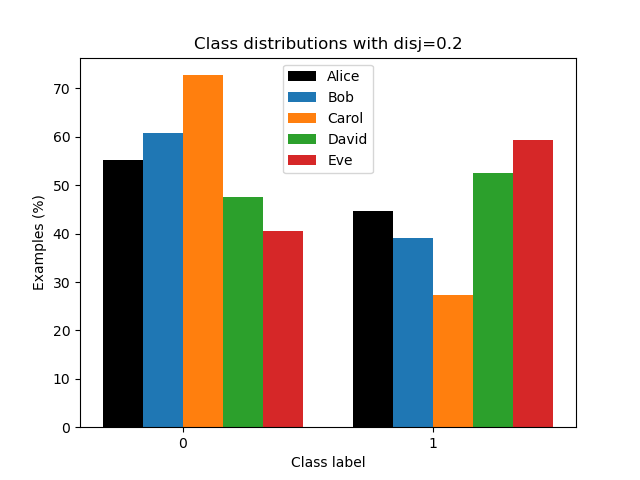
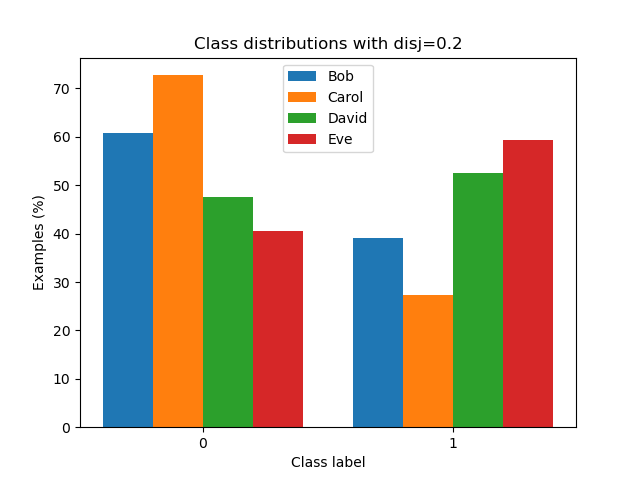
Don't plot Alice in consortium

diff --git a/scripts/make_plots.py b/scripts/make_plots.py
@@ -48,7 +48,9 @@ def distributions(results, split_type=None):
         if key not in r:
             continue
         lcs = r[key]
-        names = ["Alice"] + r['trainers']
+        names = r['trainers']
+        if r['protocol'] == 'crowdsource':
+            names.insert(0, "Alice")
         width = 0.8 / len(names)
         for i, name in enumerate(names):
             lc = np.array(lcs[name])
